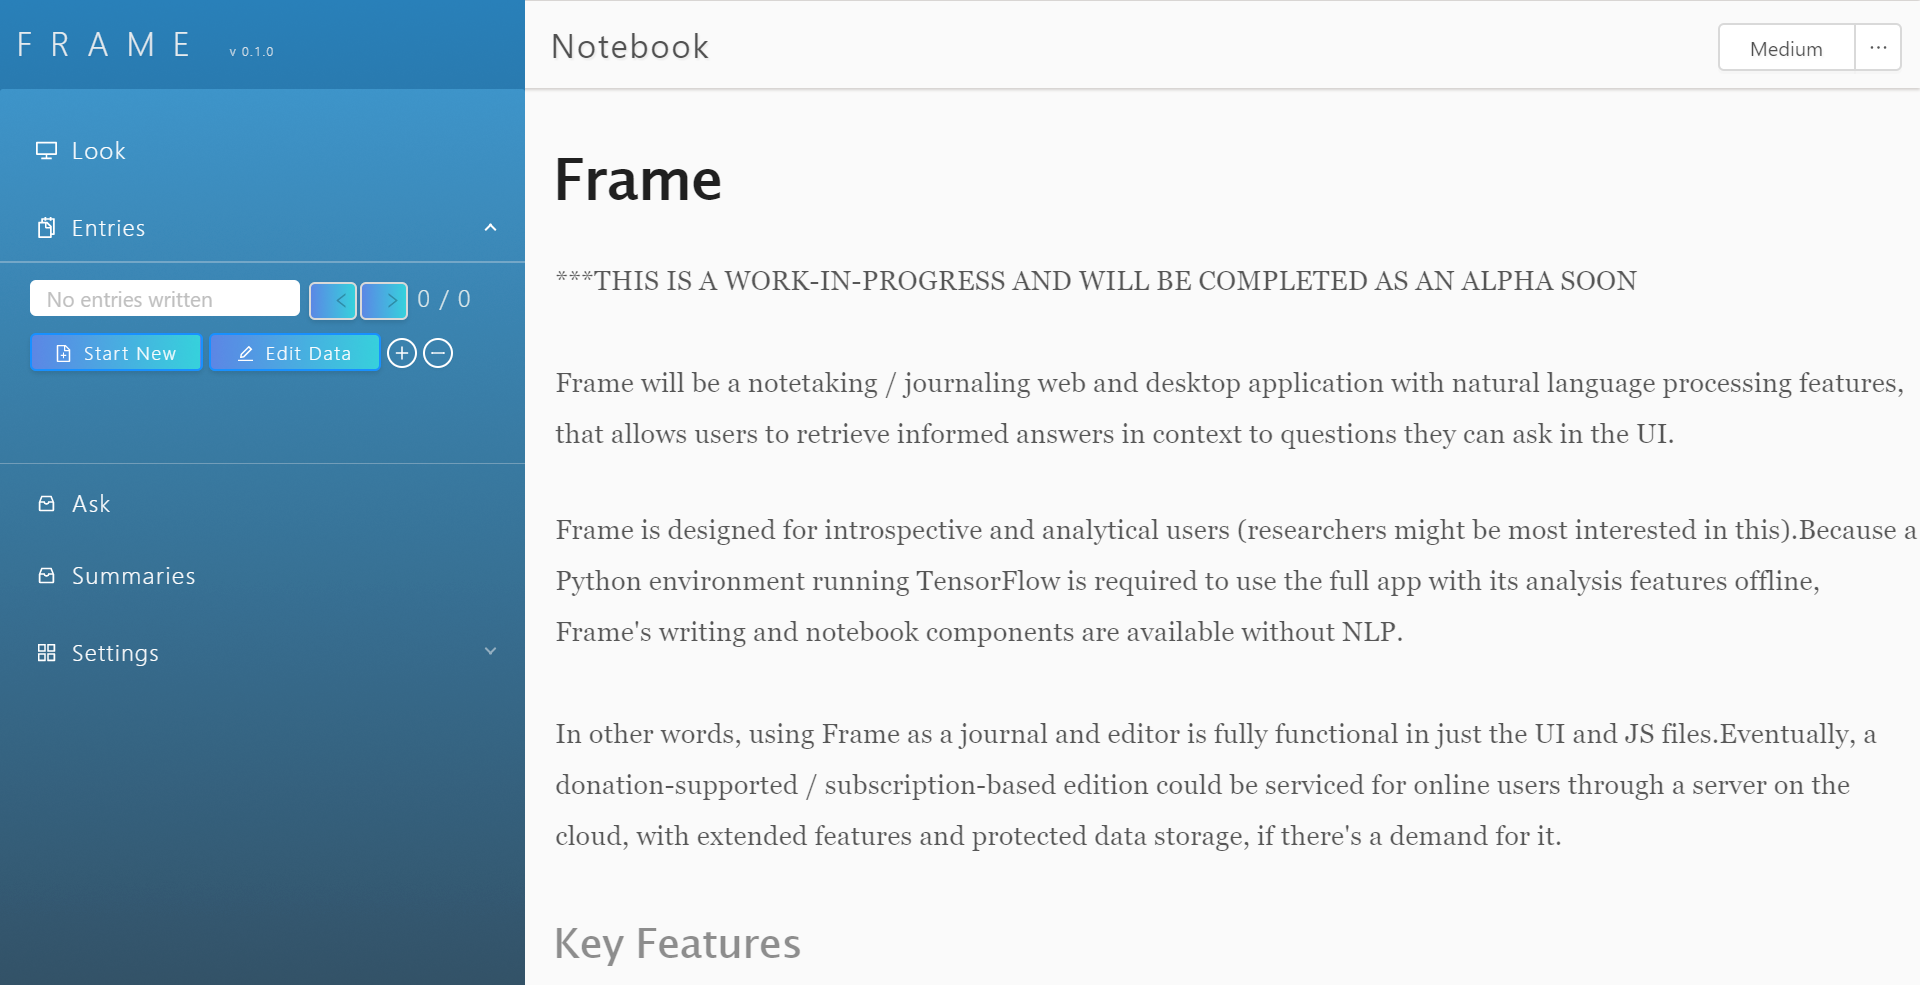
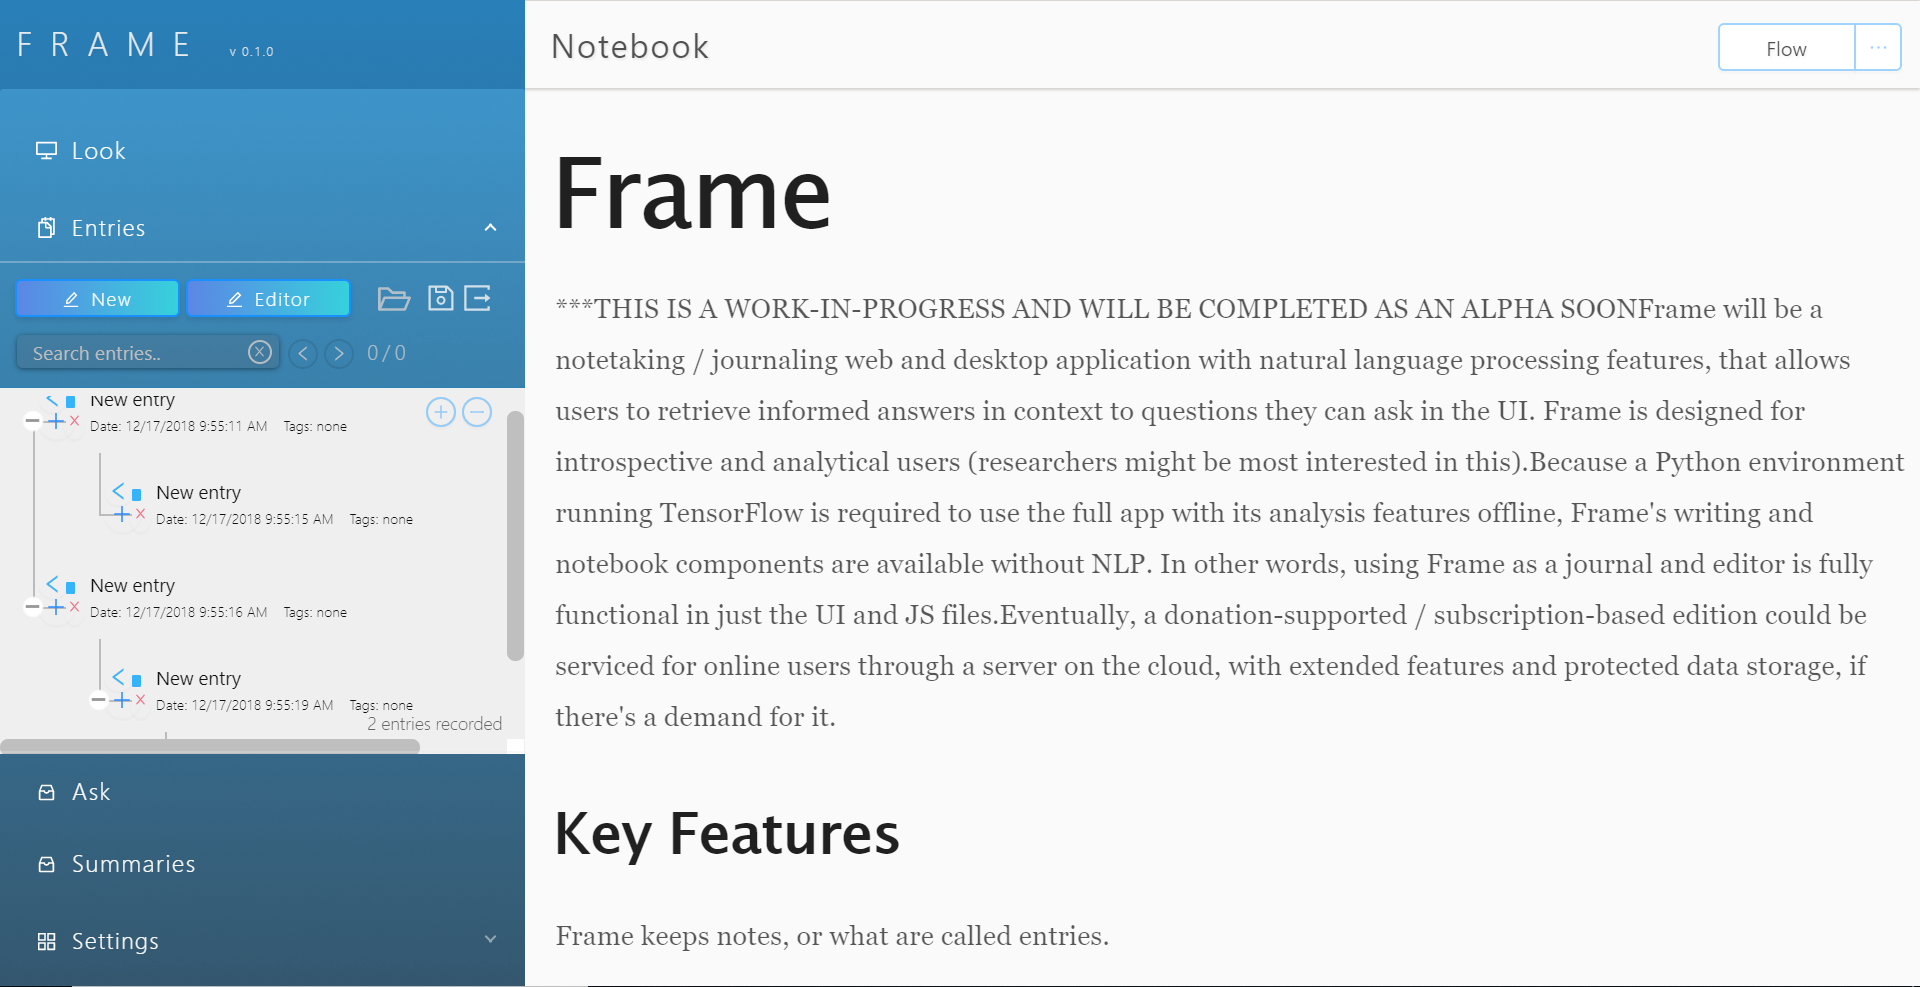
update screenshots / readme

diff --git a/frame/src/components/App/App.jsx b/frame/src/components/App/App.jsx
@@ -164,38 +164,32 @@ export default class App extends Component {
     });
   }
 
-  async getEntriesInFLib(Library) {
-    // const m_Entries = await getFromDB(Library, "entries");
-    let m_Entries;
-    const EntriesPromise = await Library.getItem("entries").then(function (result) {
-      console.log(result);
-      m_Entries = result;
-    }).catch(function(err) {
-      console.log(err);
-      m_Entries = null;
-    });
-    return m_Entries;
-  }
-
   async componentWillMount () {
+
     let Entries;
     const library = this.state.library;
     const m_Library = localforage.createInstance({
       name: library,
     });
+
+    await getFromDB(m_Library, "entries").then(function(result) {
+      console.log(result);
+      Entries = result;
+    }).catch(function(err) {
+      console.log(err);
+      Entries = null;
+    });
+
+    let entriesCount = Entries.length;
+
+    console.log(entriesCount);
+
     // Entries = this.getEntriesInFLib(m_Library);
     // if (Entries != null && Entries != undefined && Entries != "undefined") {
     // } else {
     // m_Library.setItem("entries", exampleEntries.entries);
-    saveToDB(m_Library, "entries", exampleEntries.entries);
 
-    // const EntriesPromise = await getFromDB(m_Library).then(function (result) {
-      // console.log(result);
-      // Entries = result;
-    // }).catch(function(err) {
-      // console.log(err);
-      // Entries = null;
-    // });
+    saveToDB(m_Library, "entries", exampleEntries.entries);
 
     await getFromDB(m_Library, "entries").then(function(result) {
       console.log(result);
@@ -206,34 +200,11 @@ export default class App extends Component {
     });
 
     console.log("Entries: ", Entries);
-    // }
     this.setState({
       Entries: Entries,
       editorType: editorTypes.INLINE,
       }
     )
-  }
-
-  /**
-   * Gets example Frame library entries from static JSON file,
-   * the path of which is defined in data/config.json.
-   * 
-   * If there are no other Frame libraries found, the example
-   * library is displayed by default. 
-   * 
-   * @public
-   */
-  getExampleFLibData() {  
-    console.log(exampleFLibrary);
-    // Save to localStorage for now (for exporting and syncing
-    // with actual db later)
-    // db.get('entries')
-      // .push(exampleFLibrary.entries)
-      // .write()
-    // console.log(db);
-    this.setState({currViewedEntryData: obj,
-                   currViewedEntryId: 'example'              
-    });
   }
 
   /**
@@ -281,20 +252,6 @@ export default class App extends Component {
       </Menu.Item>    
     </Menu>
   );
-
-  componentDidMount () {
-
-    
-    // let vals = db.get('entries');
-    // if (vals.length <= 0) {
-      // this.getExampleFLibData();
-      // console.log("Loaded example entries as default lib");
-    // } else {
-      // TODO: Add logic to handle loading the last Frame library
-      // that used by active user
-      // console.log("Loaded last user library that was open");
-    // }
-  }
 
   render() {
     // By default editor mode for notes is Flow

diff --git a/README.md b/README.md
@@ -8,7 +8,7 @@ Because a Python environment running TensorFlow is required to use the full app 
 
  Eventually, a donation-supported / subscription-based edition could be serviced for online users through a server on the cloud, with extended features and protected data storage, if there's a demand for it.
 
-## Current Screenshots (12-09-2018)
+## Current Screenshots (12-17-2018)
 
 UNFINISHED NON-FUNCTIONAL BUILD; WORK-IN-PROGRESS
 
@@ -38,8 +38,9 @@ Additional libraries and references used:
 
 - AllenNLP [https://allennlp.org/](https://allennlp.org/)
 - Ant Design [https://ant.design/](https://ant.design/)
+- Dante 2 [https://github.com/michelson/dante2](https://github.com/michelson/dante2)
 - electron-builder [https://www.electron.build/](https://www.electron.build/)
+- LocalForage [https://localforage.github.io/localForage/](https://localforage.github.io/localForage/)
 - react-sortable-tree [https://github.com/frontend-collective/react-sortable-tree](https://github.com/frontend-collective/react-sortable-tree)
 - react-electron-web-boilerplate [https://github.com/MikeyFriedChicken/react-electron-web-boilerplate](https://github.com/MikeyFriedChicken/react-electron-web-boilerplate)
-- Dante 2 [https://github.com/michelson/dante2](https://github.com/michelson/dante2)
 - React Quill [https://github.com/zenoamaro/react-quill](https://github.com/zenoamaro/react-quill)
